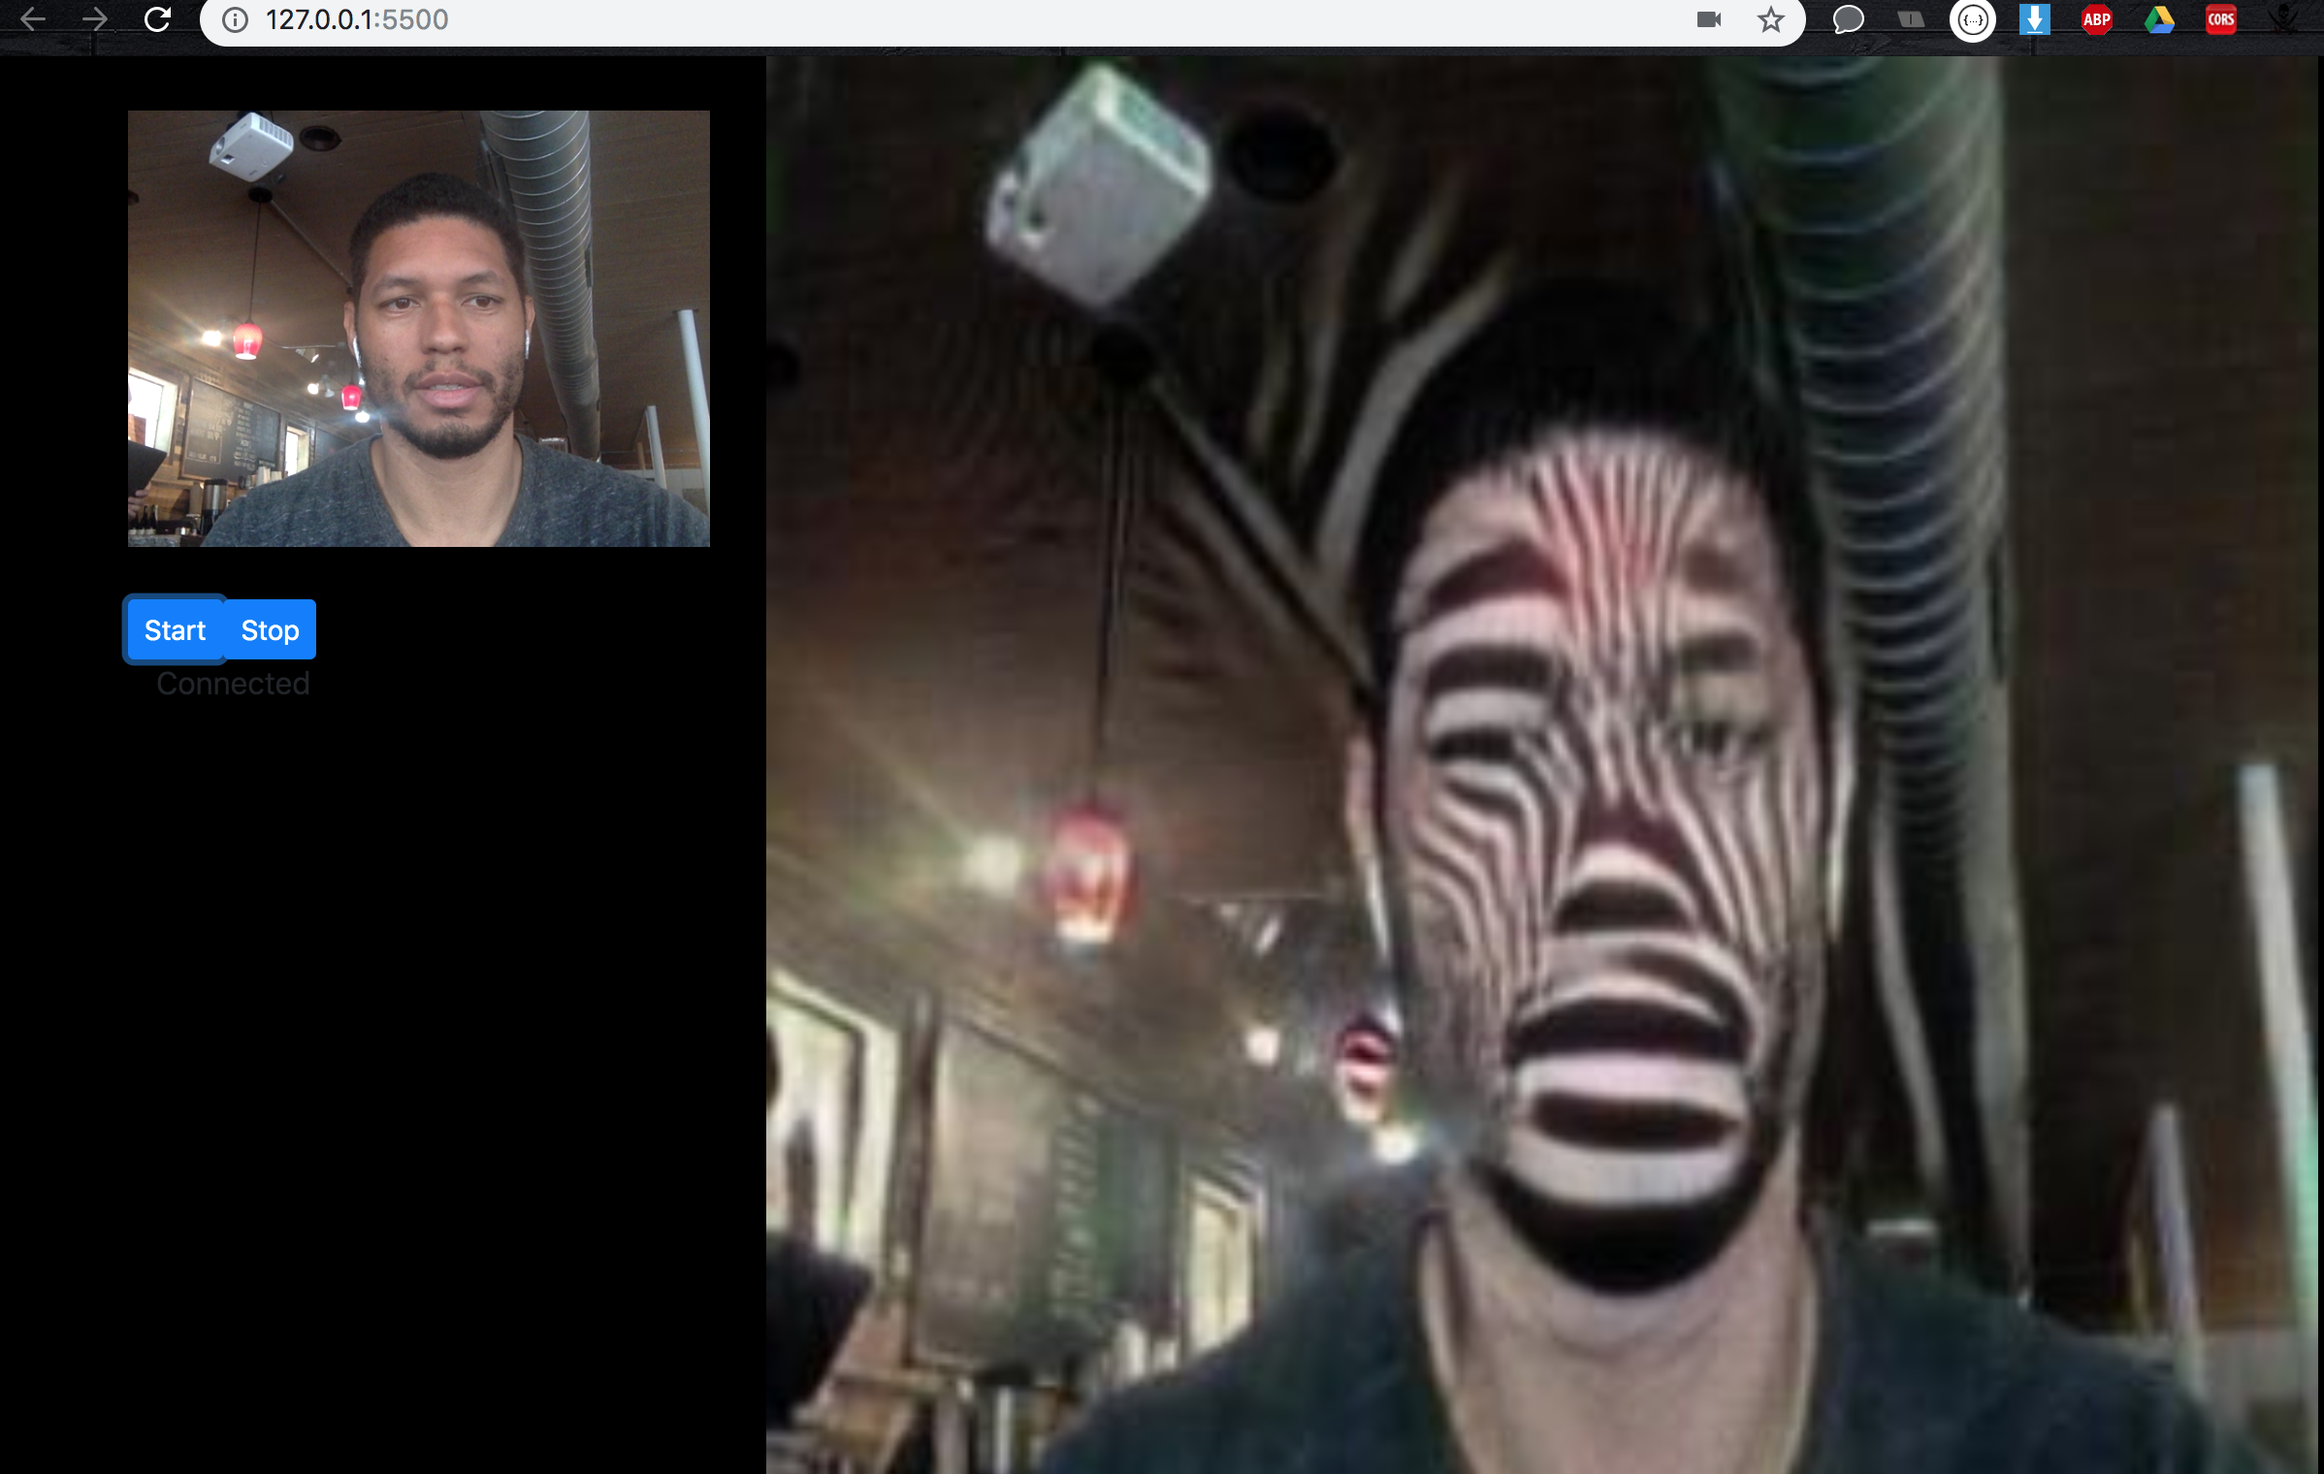
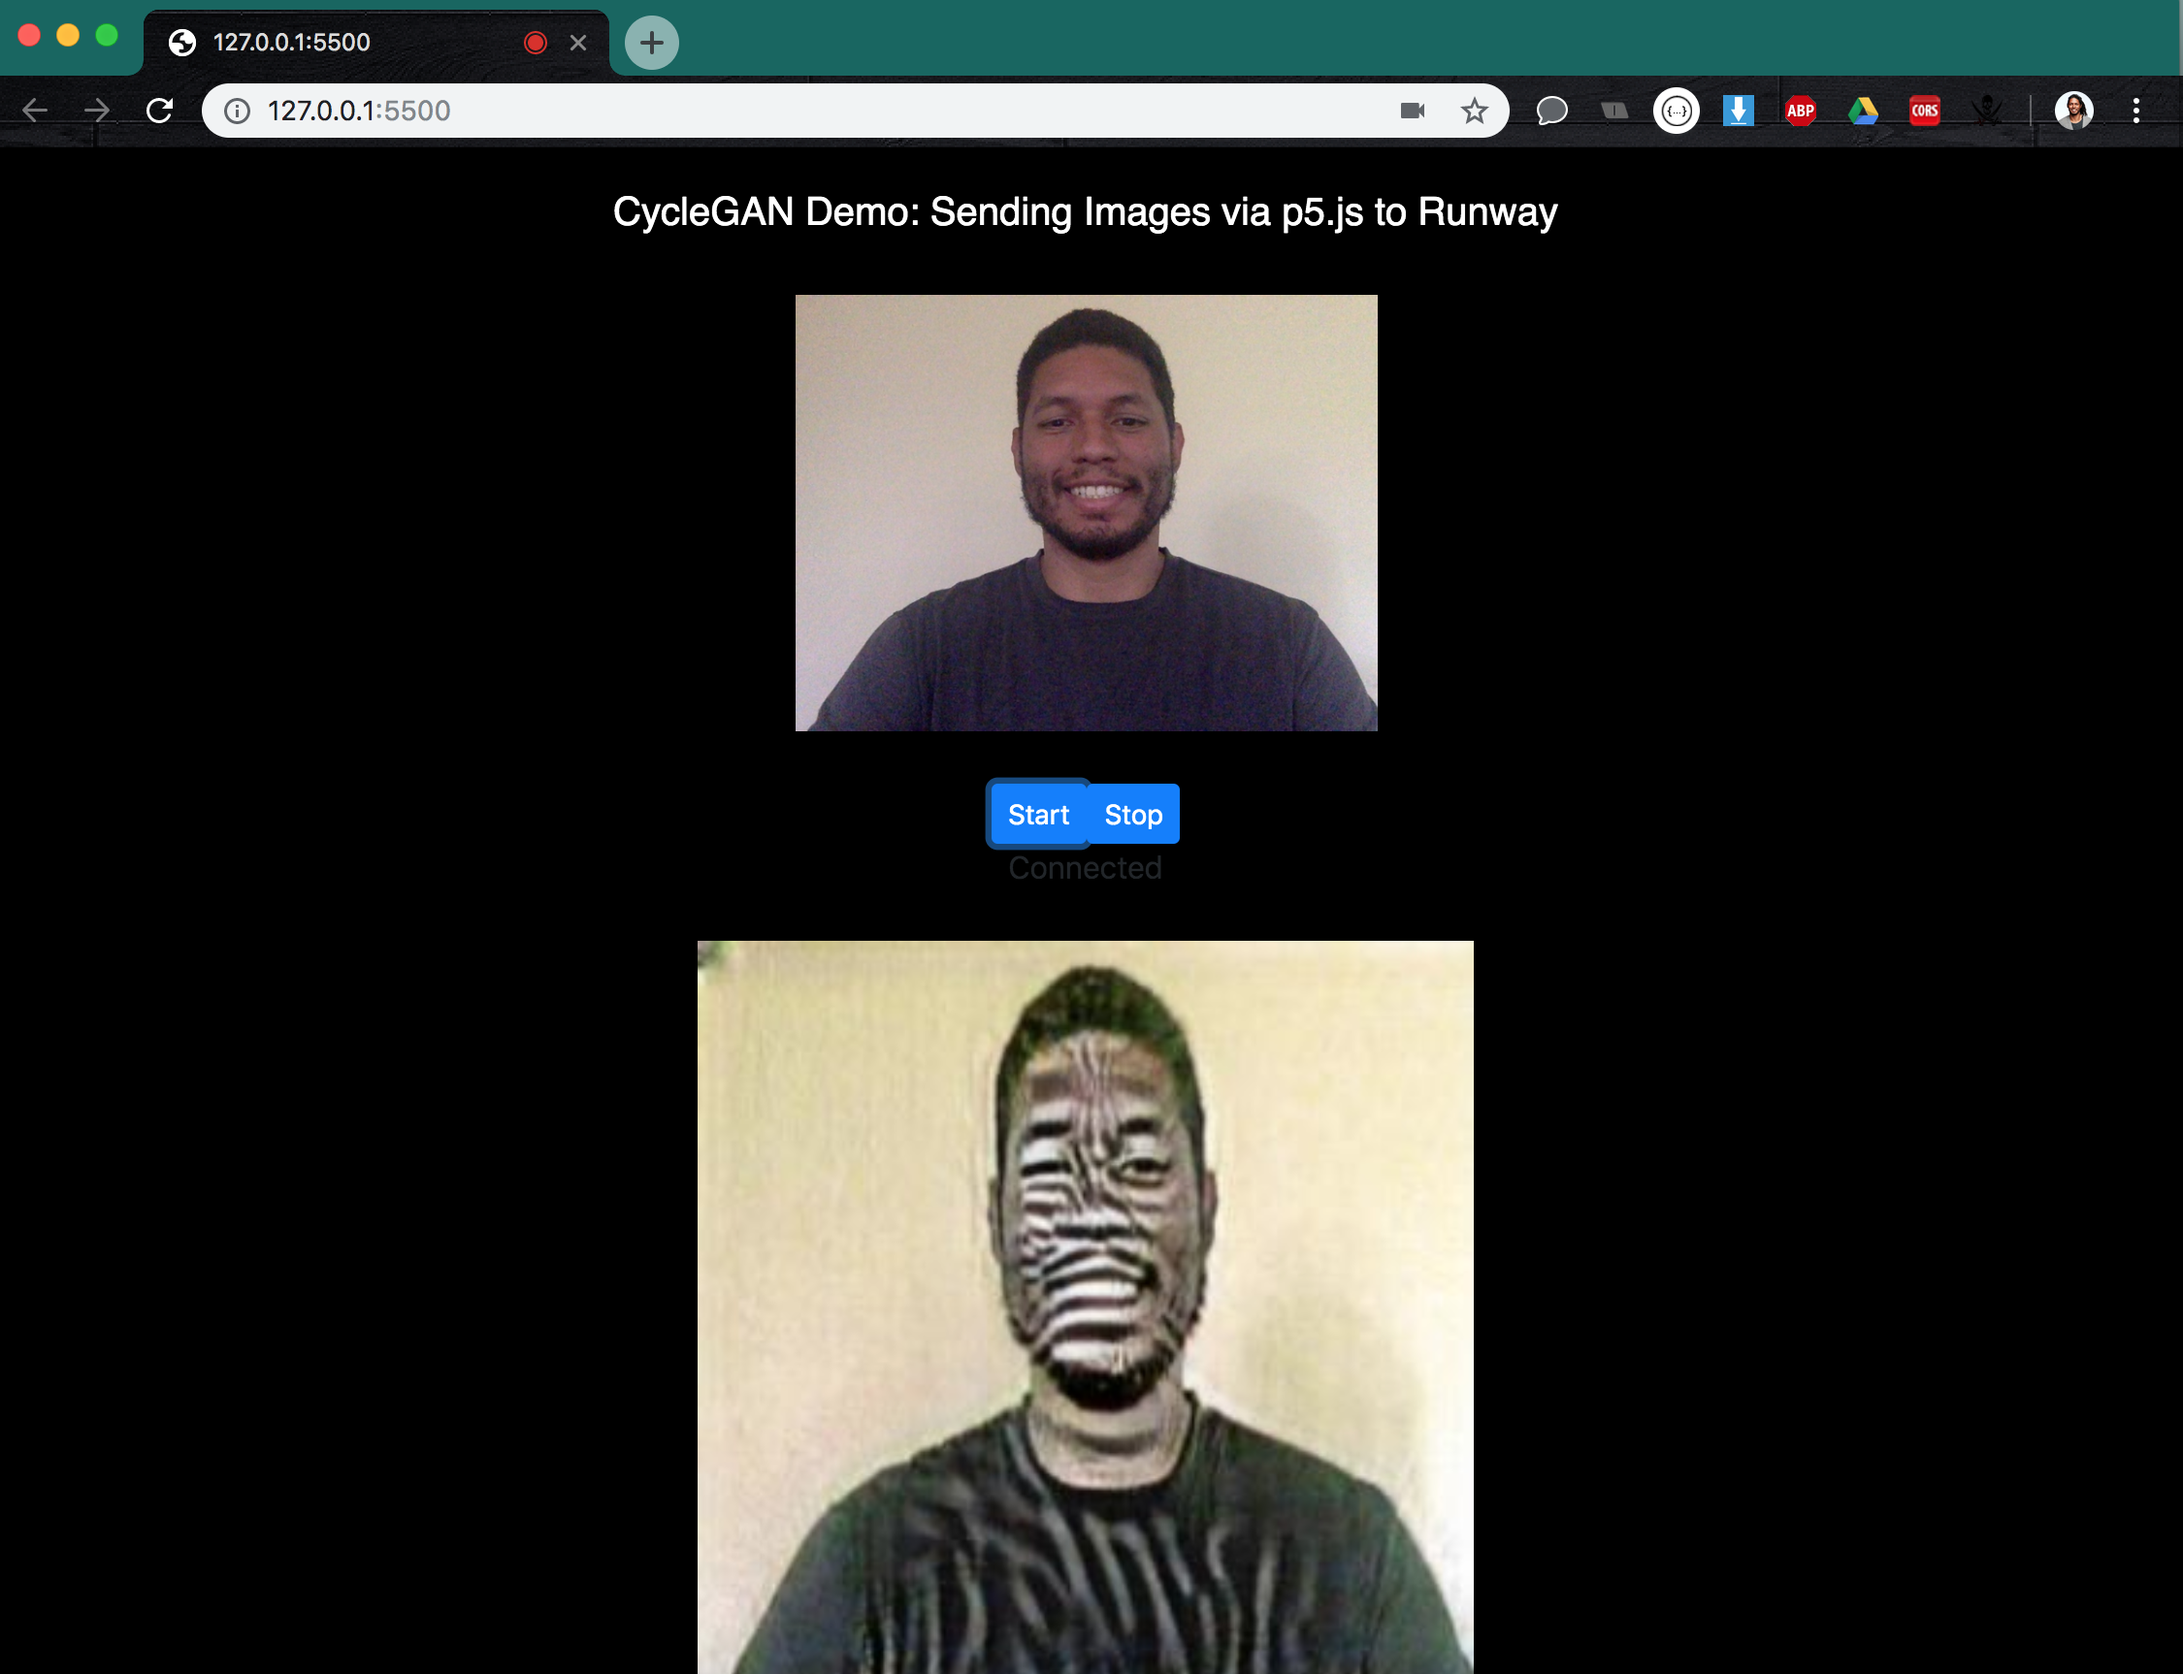
fix interface style, update README

diff --git a/CycleGAN/CycleGAN_HTTP/cyclegan.js b/CycleGAN/CycleGAN_HTTP/cyclegan.js
@@ -6,32 +6,41 @@ let post_image;
 let send_btn;
 let newimg;
 let img;
-let input_image;
 
 function setup(){
     //create the canvas
-    cnv = createCanvas(500, 500);
-    cnv.parent("#the_canvas")
-    cnv.position(0, 30);
+    cnv = createCanvas(windowWidth, 350);
+    cnv.parent("#p5canvas")
+    cnv.position(0, 0);
 
     createMenu()
-
-    input_image = createFileInput(handleFile);
-    input_image.position(80, 60);
+    fill(255);
+    text('drop file', width / 2, height / 2);
+    cnv.drop(handleFile);
 }
 
 function draw(){
   //draw the input image from handleFile
   if(img){
-    image(img, 80, 80, 500, 500);
+    fill(255);
+    imageMode(CENTER);
+    image(img, width/2, 250, 300, 300);
   }
 }
 
 function createMenu(){
-   // create the send button
+   //create title
+    textSize(20);
+    fill(255);
+    textAlign(CENTER);
+    text("CycleGAN Demo: Sending Images via p5.js to Runway", width/2, 40);
+
+    // create the send button
     send_btn = createButton("SEND IMAGE");
     send_btn.mousePressed(sendImages);
+    send_btn.addClass("btn btn-sm btn-primary");
     send_btn.parent("#send_btn");
+    send_btn.position(500, 380)
 }
 
 function handleFile(file) {
@@ -48,8 +57,8 @@ function newDrawing(data){
     if(data && data.image) {
       newimg = createImg(data.image);
       newimg.attribute('width', 400)
-      newimg.attribute('height', 400)
-      newimg.position(700, 80);
+      newimg.attribute('height', 400);
+      newimg.position(width/2 - 200, 440);
     }
 }
 

diff --git a/CycleGAN/CycleGAN_Websockets/index.html b/CycleGAN/CycleGAN_Websockets/index.html
@@ -6,25 +6,29 @@
 	  <script language="javascript" type="text/javascript" src="libraries/p5.js"></script>
 	  <script language="javascript" type="text/javascript" src="libraries/p5.dom.js"></script>
 	  <link rel="stylesheet" href="https://stackpath.bootstrapcdn.com/bootstrap/4.3.1/css/bootstrap.min.css" integrity="sha384-ggOyR0iXCbMQv3Xipma34MD+dH/1fQ784/j6cY/iJTQUOhcWr7x9JvoRxT2MZw1T" crossorigin="anonymous">
-  	
-  	<style> body {padding: 0; margin: 0;} </style>
+	  <link rel="stylesheet" href="style/main.css">
 </head>
 
 <body>
 <div class="container">
-	<div class="row">
+   <br>
+   <br>
+	<div class="row justify-content-md-center">
 		<video width="300" height="280" muted="muted"></video>
 		<!-- Canvas: Just to send base64 images to Runway -->
 		<canvas width="300" height="280" style="display: none;"></canvas>
 	</div>
-	<div class="row">
+	<div class="row justify-content-md-center">
 		<!-- Control Buttos -->
 		<button id="start" class="btn btn-sm btn-primary">Start</button>
 		<button id="stop" class="btn btn-sm btn-primary">Stop</button>
 	</div>
-		<!-- Connection status -->
+	<div class="row justify-content-md-center">
 		<p id="status">Not Connected</p>
+	</div>
+		<!-- Connection status -->
 		<div id="p5canvas"></div>
+	</div>
 </div>
   <!-- The main script -->
   <script src="cyclegan.js"></script>

diff --git a/CycleGAN/CycleGAN_HTTP/index.html b/CycleGAN/CycleGAN_HTTP/index.html
@@ -3,16 +3,20 @@
   	<meta charset="UTF-8">
 	  <script language="javascript" type="text/javascript" src="libraries/p5.js"></script>
 	  <script language="javascript" type="text/javascript" src="libraries/p5.dom.js"></script>
-	  <link rel="stylesheet" href="https://stackpath.bootstrapcdn.com/bootstrap/4.3.1/css/bootstrap.min.css" integrity="sha384-ggOyR0iXCbMQv3Xipma34MD+dH/1fQ784/j6cY/iJTQUOhcWr7x9JvoRxT2MZw1T" crossorigin="anonymous">
-  	
-  	<style> body {padding: 0; margin: 0; background-color: #7f8c8d;} </style>
+	  	<link rel="stylesheet" href="https://stackpath.bootstrapcdn.com/bootstrap/4.3.1/css/bootstrap.min.css" integrity="sha384-ggOyR0iXCbMQv3Xipma34MD+dH/1fQ784/j6cY/iJTQUOhcWr7x9JvoRxT2MZw1T" crossorigin="anonymous">
+	  <link rel="stylesheet" href="main.css">
+	  <link rel="stylesheet" href="style/main.css">
 </head>
 
 <body>
 <div class="container">
-	<div class="row">
-		<div id="the_canvas">
-  		<button id="send_btn" type="button"></button>
+	<div class="row justify-content-md-center">
+		<div id="p5canvas">
+  </div>
+  <div class="row justify-content-md-center">
+
+	<button id="send_btn" class="send_button"></button>
+
   </div>
 </div>
   <!-- The main script -->

diff --git a/CycleGAN/CycleGAN_Websockets/cyclegan.js b/CycleGAN/CycleGAN_Websockets/cyclegan.js
@@ -77,10 +77,17 @@ function setup(){
     cnv.style('z-index', '-1');
     cnv.position(0, 0);
     background(0);
+    createMenu();
 }
 
-function draw(){
+function createMenu(){
+  //create title
+   textSize(20);
+   fill(255);
+   textAlign(CENTER);
+   text("CycleGAN Demo: Sending Images via p5.js to Runway", width/2, 40);
 }
+
 
 function newDrawing(data){
     if(data && data.image) {
@@ -88,7 +95,13 @@ function newDrawing(data){
       raw.onload = function() {
           img = createImage(raw.width, raw.height);
           img.drawingContext.drawImage(raw, 0, 0);
-          image(img, 400, 0, 800, 800); 
+          imageMode(CENTER)
+          image(img, width/2, height/1.3, 400, 400); 
         }
     }
+}
+
+function windowResized(){
+  background(0);
+  resizeCanvas(windowWidth, windowHeight);
 }

diff --git a/CycleGAN/CycleGAN_HTTP/style/main.css b/CycleGAN/CycleGAN_HTTP/style/main.css
@@ -1,0 +1,7 @@
+body {
+    background-color: #000;
+} 
+
+.send_button{
+    background-color: #000;
+}

diff --git a/CycleGAN/CycleGAN_Websockets/style/main.css b/CycleGAN/CycleGAN_Websockets/style/main.css
@@ -1,0 +1,3 @@
+body {
+    background-color: #000;
+} 

diff --git a/CycleGAN/CycleGAN_HTTP/README.md b/CycleGAN/CycleGAN_HTTP/README.md
@@ -2,8 +2,8 @@
 
 ## Get Started
 1. Open Runway, add CycleGAN_HTTP model to your workspace
-2. Select "Network" as input and ouput, Run the model
     Your Runway interface should look like this:
+
     <img src="images/interface.png" width="500">
 
 3. Run the sketch
@@ -12,7 +12,7 @@
     $ python -m SimpleHTTPServer     # $ python3 -m http.server (if you are using python 3)
     ```
     Go to `localhost:8000` in your browser
-4. Click the "Start" button.
+4. Drag an image to the interface and press "Send Image"
     You should be able to see results like this:
     
     <img src="images/header.png" width="500">

diff --git a/CycleGAN/CycleGAN_Websockets/README.md b/CycleGAN/CycleGAN_Websockets/README.md
@@ -1,9 +1,9 @@
 # Runway CycleGAN model with websockets and p5.js
 
 ## Get Started
-1. Open Runway, add CycleGAN_Websockets model to your workspace
-2. Select "Network" as input and ouput, Run the model
+1. Open Runway, add CycleGAN_Websockets model to your workspace.
     Your Runway interface should look like this:
+
     <img src="images/interface.png" width="500">
 
 3. Run the sketch
